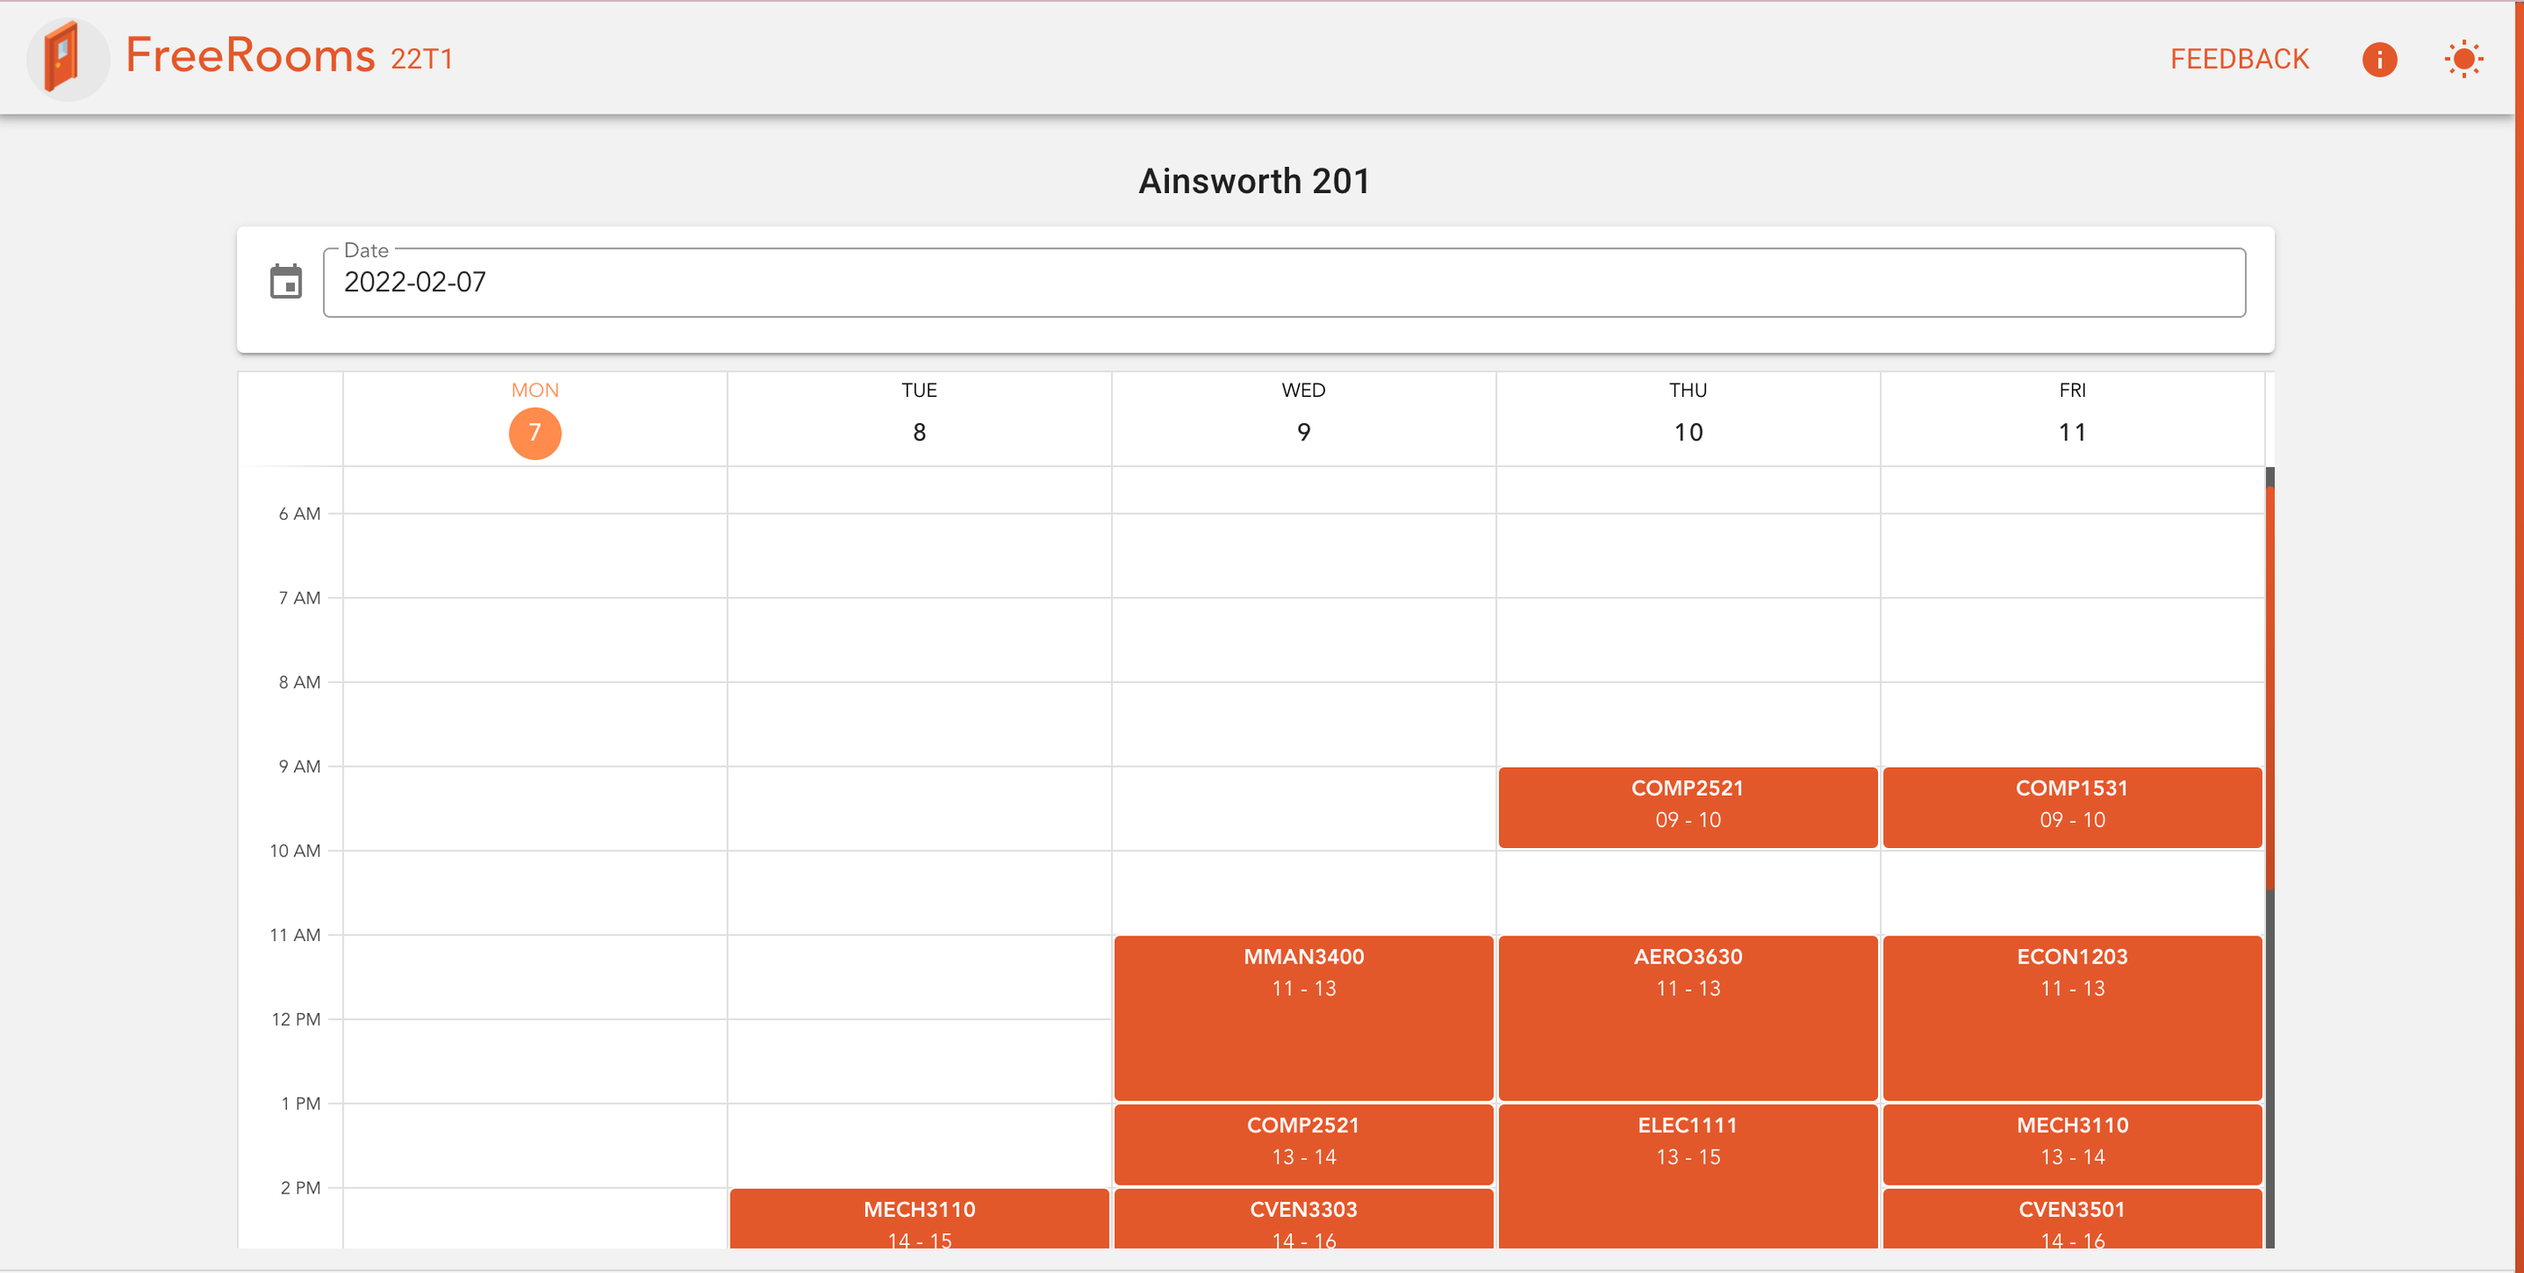
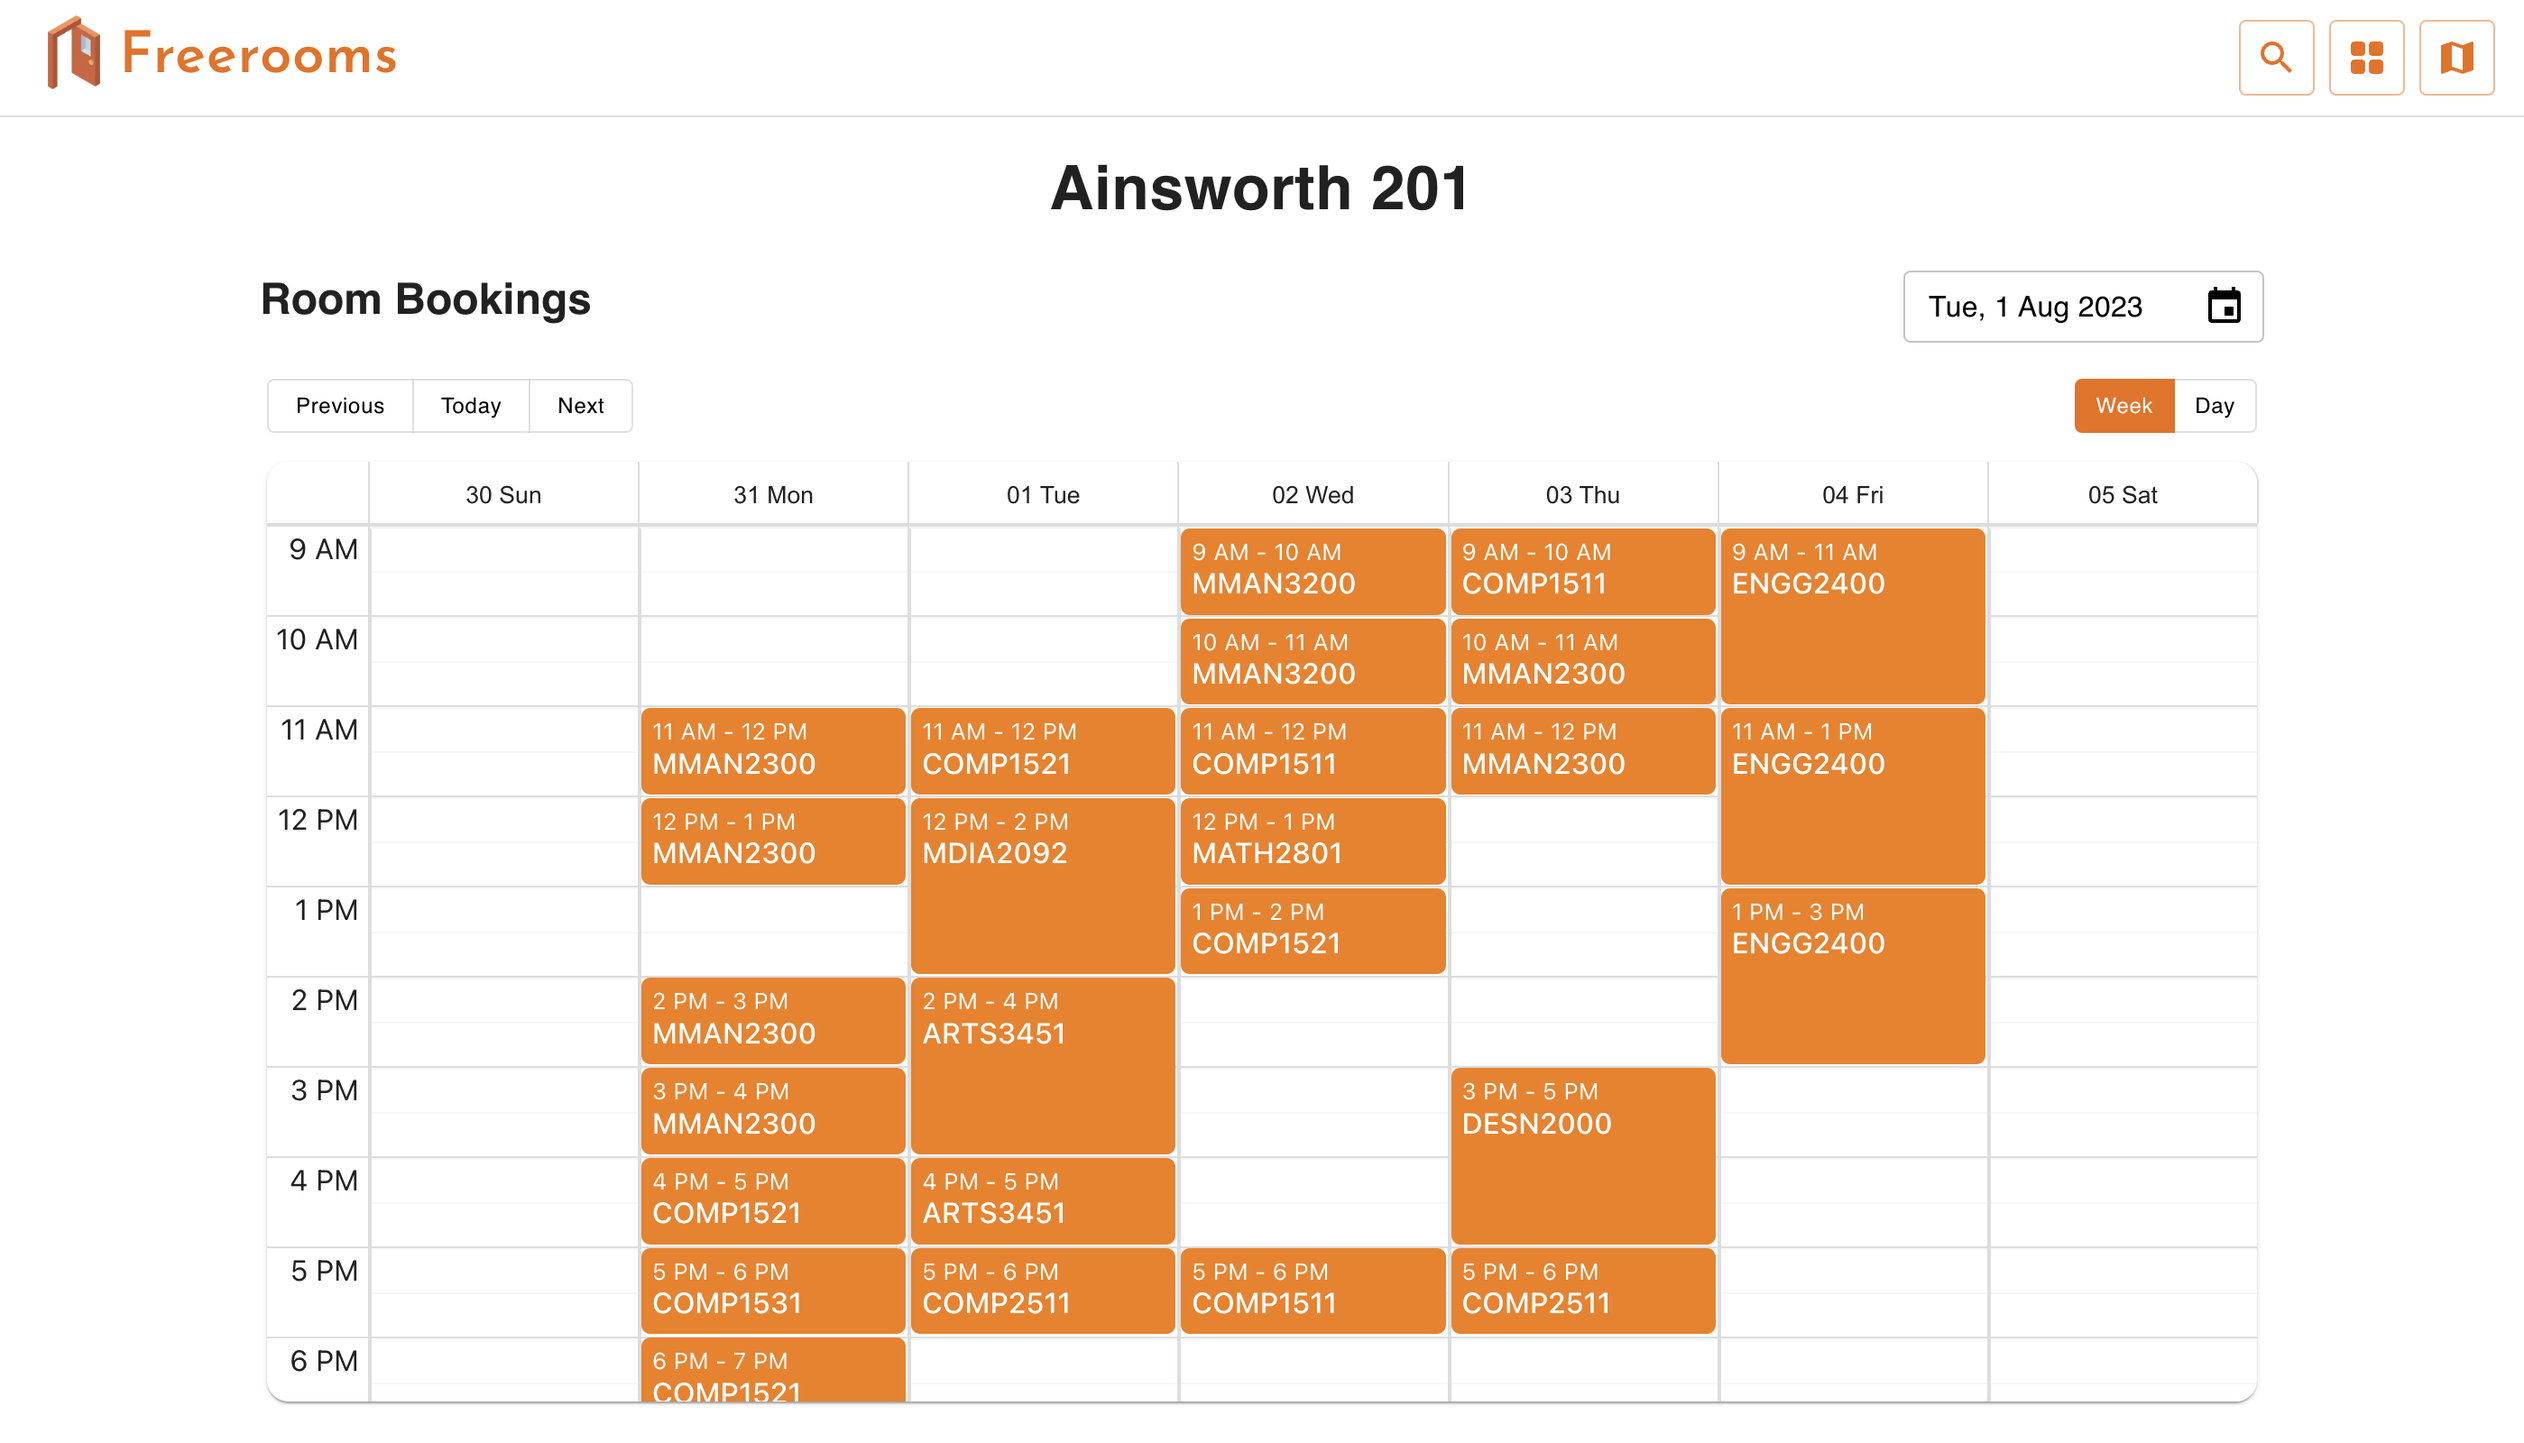
feat(docs): update docs to reflect v2

diff --git a/README.md b/README.md
@@ -17,21 +17,38 @@ You can find a live build of Freerooms at [https://freerooms.csesoc.app](https:/
 
 - Check which rooms are free:
 
-<img src="docs/gallery.png" alt="Gallery" width="450px">
-<img src="docs/list.png" alt="Room List" width="450px">
+<img src="docs/browse.png" alt="Browse page" width="450px">
+
+- Sort and filter by a range of criteria:
+
+<img src="docs/sort.png" alt="Sort" width="150">
+<img src="docs/filter.png" alt="Filter" width="150px">
+
+- See which buildings around you have free rooms on the map:
+
+<img src="docs/map.png" alt="Map" width="450px">
 
 - See the timetable for each room:
 
 <img src="docs/timetable.png" alt="Room Timetable" width="450px">
 
+- Quickly search for specific buildings or rooms:
+
+<img src="docs/search.png" alt="Search modal" width="450px">
+
+
 ## Future Plans
 
 This project is rapidly expanding and our roadmap includes features such as:
 
-- **Map View**: Find and navigate to free rooms near you.
-- **Search, Sort and Filter**: Find the perfect room for your needs.
+- **Detailed Room Information**: Information such as a room's type, how to book it, and all its aliases.
+- **Society Bookings**: Use data about society bookings and other bookings besides scheduled classes.
 - **Mobile App**: Use Freerooms anytime, anywhere!
 
-# Our team
+# Local Setup
+
+See the [backend](backend), [frontend](frontend) and [app](app) directories for instructions on setting up and running Freerooms locally.
+
+# Our Team
 
 We are a team that is part of CSESoc Development. See [TEAM.md](./TEAM.md) for more information on the current and previous team that contributed to the development of Freerooms.
